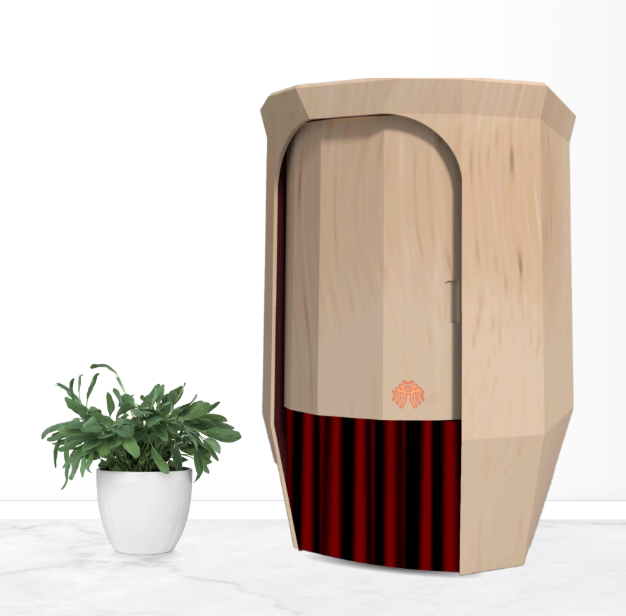
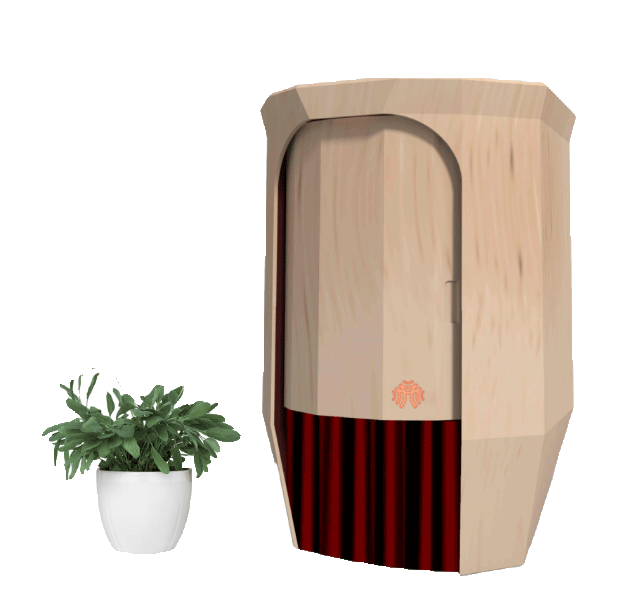
responsive almost finished

diff --git a/index.html b/index.html
@@ -52,41 +52,41 @@
           <button type="button" class="btn btn-link" id="btn-1">Reserve For $199*</button>
           <button type="button" class="btn btn-link" id="btn-2">Get Launch Update</button>
         </div>
-          <div class="col-md-9 mt-3">
+          <div class="col-md-10 mt-5">
             <div class="row gap-3">
-                <div class="card text-center shadow-sm rounded col-md-3" style="width: 8rem; height: 6rem;">
+                <div class="card text-center shadow-sm rounded col-md-3" style="width: 9rem; height: 6rem;">
                   <div class="card-body">
                     <img class="icon-img" src="/images/icons/schedule.png" alt="">
                     <p class="card-text">Free Trial</p>
                   </div>
                 </div>
-                <div class="card text-center shadow-sm rounded col-md-3" style="width: 8rem; height: 6rem;">
+                <div class="card text-center shadow-sm rounded col-md-3" style="width: 9rem; height: 6rem;">
                   <div class="card-body">
                     <img class="icon-img" src="/images/icons/icons8-therapy-64.png" alt="">
                     <p class="card-text">Therapy integration
                     </p>
                   </div>
                 </div>
-                <div class="card text-center shadow-sm rounded col-md-3" style="width: 8rem; height: 6rem;">
+                <div class="card text-center shadow-sm rounded col-md-3" style="width: 9rem; height: 6rem;">
                   <div class="card-body">
                     <img class="icon-img" src="/images/icons//shield-check (1).png" alt="">
                     <p class="card-text">Safe space</p>
                   </div>
                 </div>
 
-                <div class="card text-center shadow-sm rounded col-md-3" style="width: 8rem; height: 6rem;">
+                <div class="card text-center shadow-sm rounded col-md-3" style="width: 9rem; height: 6rem;">
                   <div class="card-body">
                     <img class="icon-img" src="/images/icons/schedule (1).png" alt="">
                     <p class="card-text">Client progress</p>
                   </div>
                 </div>
-                  <div class="card text-center shadow-sm rounded col-md-3" style="width: 8rem; height: 6rem;">
+                  <div class="card text-center shadow-sm rounded col-md-3" style="width: 9rem; height: 6rem;">
                     <div class="card-body">
                       <img class="icon-img" src="/images/icons/icons8-therapy-64 (1).png" alt="">
                       <p class="card-text">Biofeedback</p>
                     </div>
                   </div>
-                  <div class="card text-center shadow-sm rounded col-md-3" style="width: 8rem; height: 6rem;">
+                  <div class="card text-center shadow-sm rounded col-md-3" style="width: 9rem; height: 6rem;">
                     <div class="card-body">
                       <img class="icon-img" src="/images/icons/shield-check (2).png" alt="">
                       <p class="card-text">Automated scheduler</p>
@@ -96,7 +96,7 @@
               </div>
           </div>
           <div class="col-md-5  banner-img">
-            
+            <img src="/images/banner-img-1.png" style="width: 400px;" alt="">
           </div>
         </div>
       </div>

diff --git a/style.css b/style.css
@@ -81,7 +81,7 @@ body{
 
 /* banner-card */
 #home{
-    background-image: url(images/Banner\ Image.png);
+    background-image: url(images/Mask\ group-1.png);
     background-position: center;
     background-repeat: no-repeat;
     background-size: cover;
